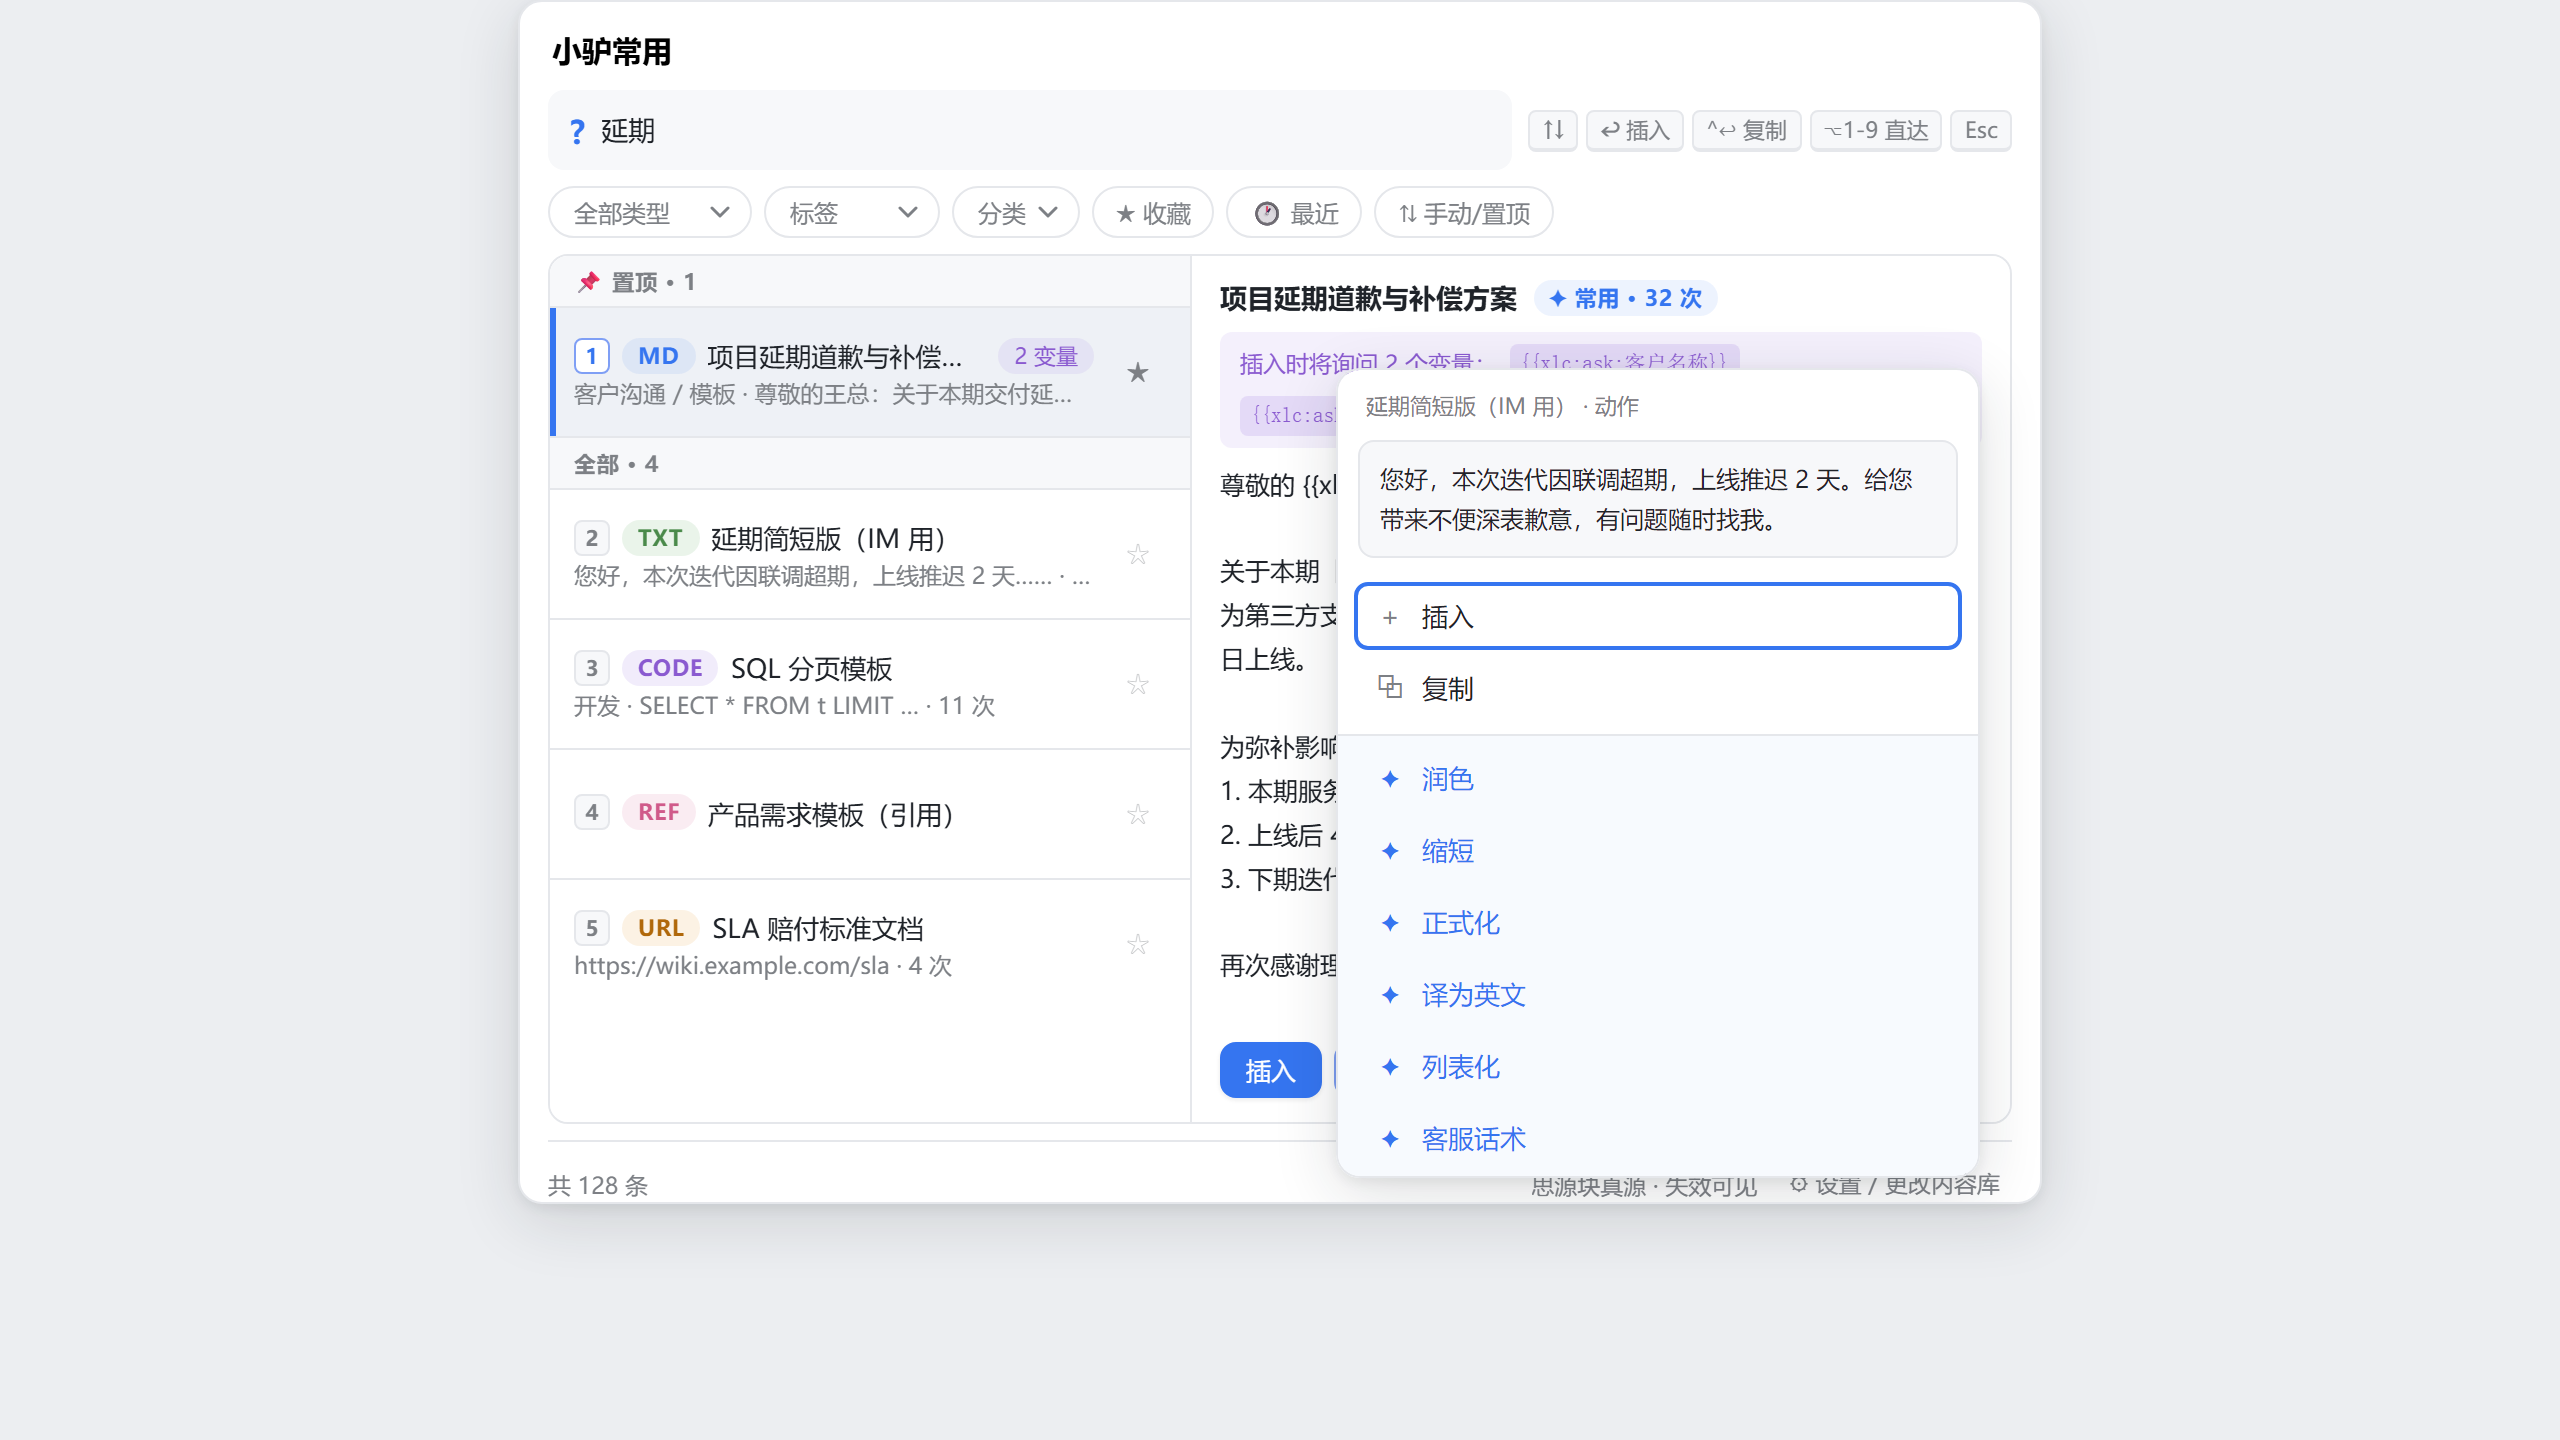
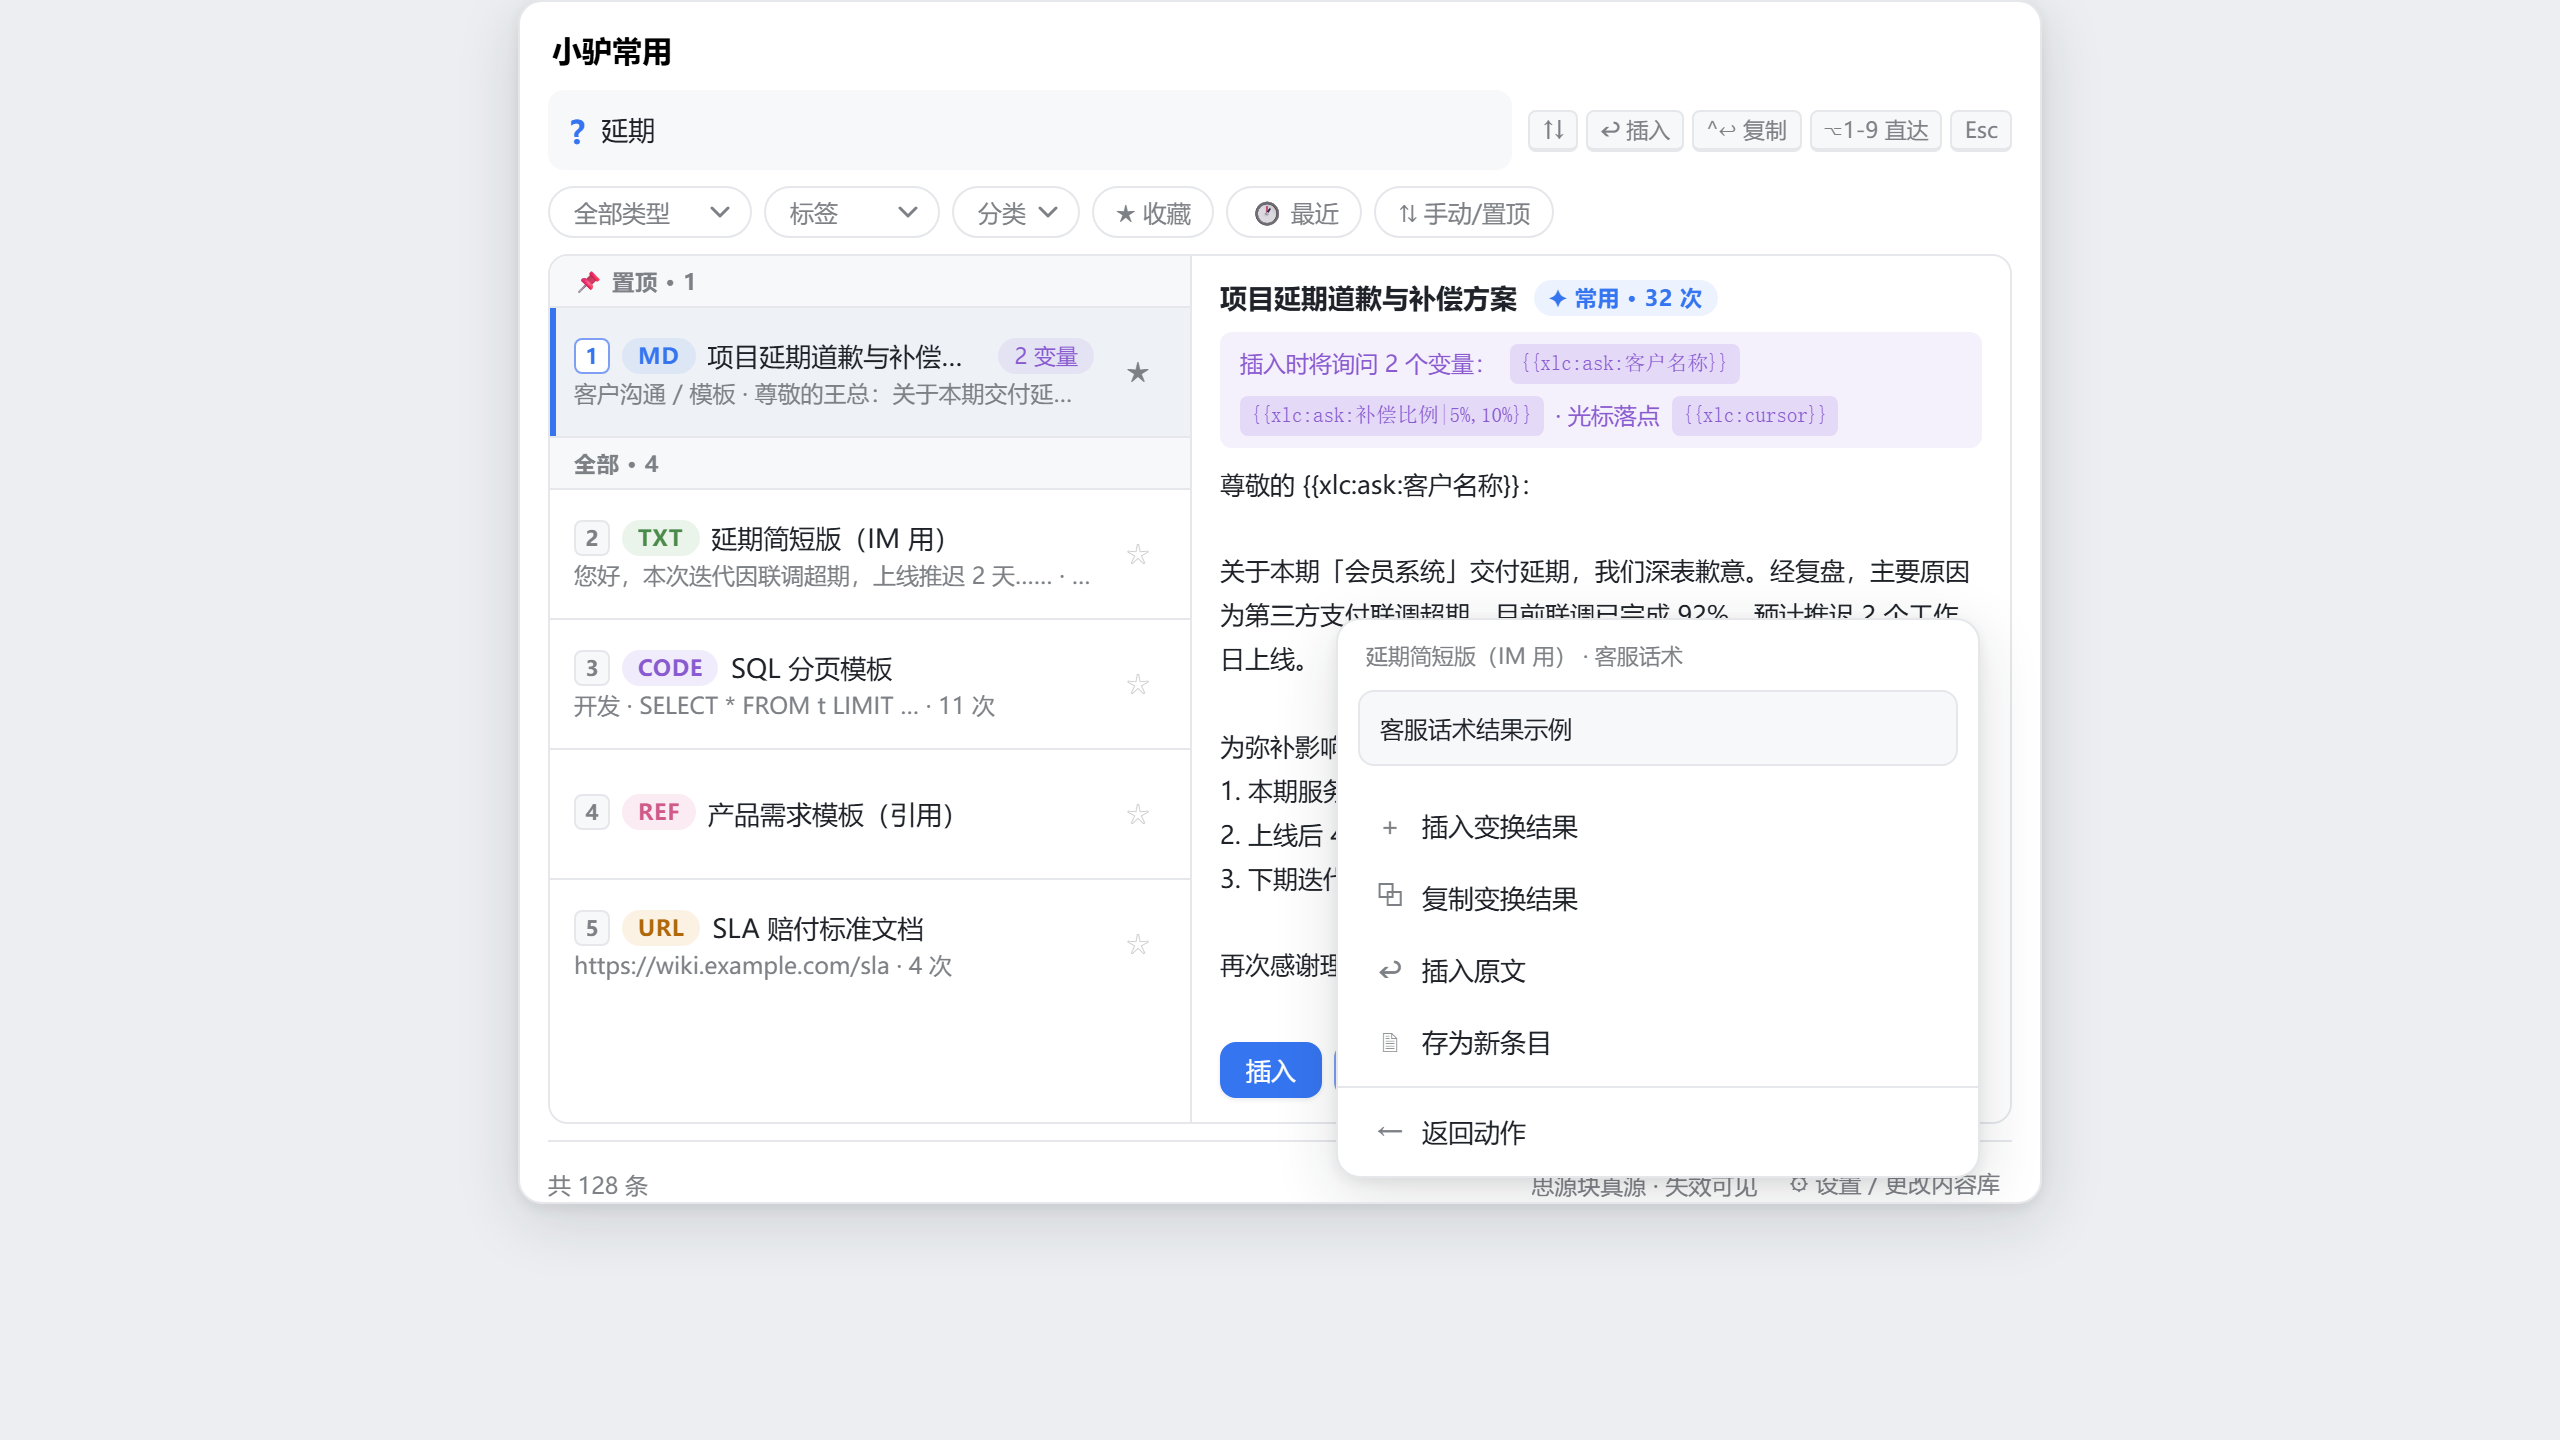
R77：修 AI 变换视图两处真缺陷——复制变换结果误复制原文（新增 copyText 传结果本体）+ 结果未就绪时插/复制禁用防插入空块；harness 补按钮 i18n；15 组 80 断言全绿（负向验证×1）

Changed region(s): [[0.5, 0.25, 0.7812, 0.75], [0.5312, 0.7812, 0.5938, 0.8125]]

diff --git a/src/ui/dialog.ts b/src/ui/dialog.ts
@@ -44,6 +44,8 @@ export interface DialogDeps {
     toggleFavorite: (itemId: string) => boolean;
     isFavorite: (itemId: string) => boolean;
     insertRaw: (markdown: string) => Promise<boolean>;
+    /** 写剪贴板（复制变换结果用，区别于条目原始内容的 runAction copy） */
+    copyText: (text: string) => Promise<boolean>;
     getSort: () => "manual" | "recent" | "frequent" | "title";
     cycleSort: () => void;
     openSetup: () => void;
@@ -1170,18 +1172,32 @@ export class CommonSearchDialog {
             menu.appendChild(box);
             const sec = document.createElement("div");
             sec.className = "xlc-menu-sec";
-            const mk = (icon: string, label: string, run: () => Promise<void>): void => {
-                sec.appendChild(this.menuButton(icon, label, "xlc-menu-item", run));
+            // 结果未就绪（AI 处理中）时结果类操作禁用——防止插入空块
+            const resultButtons: HTMLButtonElement[] = [];
+            const syncReady = (): void => {
+                const ready = Boolean(box.dataset.transformed);
+                for (const b of resultButtons) b.disabled = !ready;
             };
-            mk("＋", this.deps.t("aiInsertTransformed"), async () => {
-                await this.deps.insertRaw(box.dataset.transformed ?? "");
+            const insertBtn = this.menuButton("＋", this.deps.t("aiInsertTransformed"), "xlc-menu-item", async () => {
+                const transformed = box.dataset.transformed ?? "";
+                if (!transformed) return;
+                this.destroy();
+                await this.deps.insertRaw(transformed);
             });
-            mk("⧉", this.deps.t("aiCopyTransformed"), async () => {
-                await this.deps.runAction(entry.id, "copy");
+            const copyBtn = this.menuButton("⧉", this.deps.t("aiCopyTransformed"), "xlc-menu-item", async () => {
+                // 复制的是「变换结果」本体（此前误复制条目原文，R77 修正）
+                const transformed = box.dataset.transformed ?? "";
+                if (!transformed) return;
+                await this.deps.copyText(transformed);
             });
-            mk("↩", this.deps.t("aiInsertOriginal"), async () => {
+            resultButtons.push(insertBtn, copyBtn);
+            sec.appendChild(insertBtn);
+            sec.appendChild(copyBtn);
+            syncReady();
+            (menu as HTMLElement & {syncTransformReady?: () => void}).syncTransformReady = syncReady;
+            sec.appendChild(this.menuButton("↩", this.deps.t("aiInsertOriginal"), "xlc-menu-item", async () => {
                 await this.deps.runAction(entry.id, entry.itemType === "blockref" ? "insert-ref" : "insert");
-            });
+            }));
             sec.appendChild(this.menuButton("🗎", this.deps.t("saveTransformed"), "xlc-menu-item", async () => {
                 const transformed = box.dataset.transformed ?? "";
                 this.destroy();
@@ -1194,10 +1210,11 @@ export class CommonSearchDialog {
                 rebuild(buildDefault);
             }));
             menu.appendChild(secBack);
-            // 把最终文本挂到 dataset 供按钮使用（runTransformView 完成后填充）
+            // 把最终文本挂到 dataset 供按钮使用（runTransformView 完成后填充并解除结果按钮禁用）
             (menu as HTMLElement & {applyTransform?: (text: string) => void}).applyTransform = (text: string): void => {
                 box.dataset.transformed = text;
                 box.textContent = text.slice(0, 800);
+                (menu as HTMLElement & {syncTransformReady?: () => void}).syncTransformReady?.();
             };
         };
 

diff --git a/docs/design/harness-bundle.js b/docs/design/harness-bundle.js
@@ -1493,19 +1493,32 @@
         menu.appendChild(box);
         const sec = document.createElement("div");
         sec.className = "xlc-menu-sec";
-        const mk = (icon, label, run) => {
-          sec.appendChild(this.menuButton(icon, label, "xlc-menu-item", run));
+        const resultButtons = [];
+        const syncReady = () => {
+          const ready = Boolean(box.dataset.transformed);
+          for (const b of resultButtons) b.disabled = !ready;
         };
-        mk("\uFF0B", this.deps.t("aiInsertTransformed"), async () => {
+        const insertBtn = this.menuButton("\uFF0B", this.deps.t("aiInsertTransformed"), "xlc-menu-item", async () => {
           var _a2;
-          await this.deps.insertRaw((_a2 = box.dataset.transformed) != null ? _a2 : "");
+          const transformed = (_a2 = box.dataset.transformed) != null ? _a2 : "";
+          if (!transformed) return;
+          this.destroy();
+          await this.deps.insertRaw(transformed);
         });
-        mk("\u29C9", this.deps.t("aiCopyTransformed"), async () => {
-          await this.deps.runAction(entry.id, "copy");
+        const copyBtn = this.menuButton("\u29C9", this.deps.t("aiCopyTransformed"), "xlc-menu-item", async () => {
+          var _a2;
+          const transformed = (_a2 = box.dataset.transformed) != null ? _a2 : "";
+          if (!transformed) return;
+          await this.deps.copyText(transformed);
         });
-        mk("\u21A9", this.deps.t("aiInsertOriginal"), async () => {
+        resultButtons.push(insertBtn, copyBtn);
+        sec.appendChild(insertBtn);
+        sec.appendChild(copyBtn);
+        syncReady();
+        menu.syncTransformReady = syncReady;
+        sec.appendChild(this.menuButton("\u21A9", this.deps.t("aiInsertOriginal"), "xlc-menu-item", async () => {
           await this.deps.runAction(entry.id, entry.itemType === "blockref" ? "insert-ref" : "insert");
-        });
+        }));
         sec.appendChild(this.menuButton("\u{1F5CE}", this.deps.t("saveTransformed"), "xlc-menu-item", async () => {
           var _a2;
           const transformed = (_a2 = box.dataset.transformed) != null ? _a2 : "";
@@ -1520,8 +1533,10 @@
         }));
         menu.appendChild(secBack);
         menu.applyTransform = (text) => {
+          var _a2;
           box.dataset.transformed = text;
           box.textContent = text.slice(0, 800);
+          (_a2 = menu.syncTransformReady) == null ? void 0 : _a2.call(menu);
         };
       };
       const runTransformView = async (run) => {
@@ -3661,6 +3676,9 @@
       duplicateItem: "\u521B\u5EFA\u526F\u672C",
       insertToDoc: "\u63D2\u5165\u5230\u6307\u5B9A\u6587\u6863",
       insertToDocPick: "\u9009\u62E9\u76EE\u6807\u6587\u6863\uFF08\u8F93\u5165\u5173\u952E\u8BCD\u641C\u7D22\uFF09",
+      aiInsertTransformed: "\u63D2\u5165\u53D8\u6362\u7ED3\u679C",
+      aiCopyTransformed: "\u590D\u5236\u53D8\u6362\u7ED3\u679C",
+      aiInsertOriginal: "\u63D2\u5165\u539F\u6587",
       saveTransformed: "\u5B58\u4E3A\u65B0\u6761\u76EE",
       deleteConfirm: "\u5220\u9664\u6761\u76EE\u300C%s\u300D\uFF1F",
       providerSection: "\u63D0\u4F9B\u65B9\u5185\u5BB9",
@@ -3742,6 +3760,10 @@
       toggleFavorite: () => true,
       isFavorite: (id) => id === "xlc-demo0000001",
       insertRaw: async () => true,
+      copyText: async (text) => {
+        window.__xlcCopied = text;
+        return true;
+      },
       getSort: () => "manual",
       cycleSort: () => {
       },

diff --git a/scripts/harness/entry.ts b/scripts/harness/entry.ts
@@ -69,7 +69,7 @@ const T = (key: string, ...args: string[]): string => {
         "sort.manual": "手动/置顶", "sort.recent": "最近使用", "sort.title": "标题", "sort.frequent": "常用",
         totalItems: "共 %s 条",
         duplicateItem: "创建副本", insertToDoc: "插入到指定文档", insertToDocPick: "选择目标文档（输入关键词搜索）",
-        saveTransformed: "存为新条目", deleteConfirm: "删除条目「%s」？",
+        aiInsertTransformed: "插入变换结果", aiCopyTransformed: "复制变换结果", aiInsertOriginal: "插入原文", saveTransformed: "存为新条目", deleteConfirm: "删除条目「%s」？",
         providerSection: "提供方内容", providerInsert: "插入（提供方）", providerCopy: "复制（提供方）",
         providerExecutable: "可执行", providerPendingReload: "待重载",
         openSettings: "设置 / 更改内容库", openSettingsChangeLib: "更改内容库",
@@ -117,6 +117,10 @@ function makeDeps(overrides: {aiEnabled?: boolean; missing?: boolean; mobile?: b
         toggleFavorite: () => true,
         isFavorite: (id: string) => id === "xlc-demo0000001",
         insertRaw: async () => true,
+        copyText: async (text: string) => {
+            (window as unknown as {__xlcCopied?: string}).__xlcCopied = text;
+            return true;
+        },
         getSort: (): "manual" | "recent" | "title" => "manual",
         cycleSort: () => {},
         searchDocs: async (k: string) => k ? [{id: "20240101120001-hijklmn", hPath: "/常用内容库", name: "常用内容库"}] : [],

diff --git a/src/index.ts b/src/index.ts
@@ -795,6 +795,7 @@ export default class XiaolvCommonPlugin extends Plugin {
                 this.notify("info", this.i18nFn()("insertNoEditor"));
                 return copied;
             },
+            copyText: async (text) => this.host.writeClipboard(text),
             aiEnabled: () => this.state.ai.enabled,
             aiSemantic: async (desc, filters) => {
                 try {

diff --git a/docs/dev-plan-2026-10-06.md b/docs/dev-plan-2026-10-06.md
@@ -946,3 +946,15 @@
 
 - 菜单内 ↑↓ 循环移动焦点（Enter 由焦点按钮原生触发）——补全「键盘全链路」设计原则的最后一环（此前打开菜单后必须用鼠标）。
 - action-menu smoke 新增 kbNavFocus 断言（ArrowDown 后 activeElement 为菜单项）。
+
+## R77 轮（2026-10-07 AI 变换视图两处真缺陷修正 + harness i18n 补全）
+
+### R77-T1 变换结果操作防护与复制语义修正 | 完成
+
+- 修「复制变换结果」复制的是条目**原文**（误走 runAction copy）→ 新增 deps.copyText，复制变换结果本体；条目原始内容复制仍走 runAction copy。
+- 修 AI 结果未返回时点「插入/复制变换结果」→ 插入空块/复制空串 → 结果未就绪时两钮 disabled（就绪自动解除），insertRaw 已有空防御双保险。
+- 门禁负向验证：撤禁用逻辑 → `disabledBefore:false` 精准失败，恢复复验全绿。
+
+### R77-T2 harness i18n 补全 | 完成
+
+- harness T 补 aiInsertTransformed/aiCopyTransformed/aiInsertOriginal（此前变换视图按钮文案为裸键名）；UI smoke 增至 15 组 80 断言（新增 transform-result-guard 3 项：未就绪禁用/就绪解除/复制本体）。
